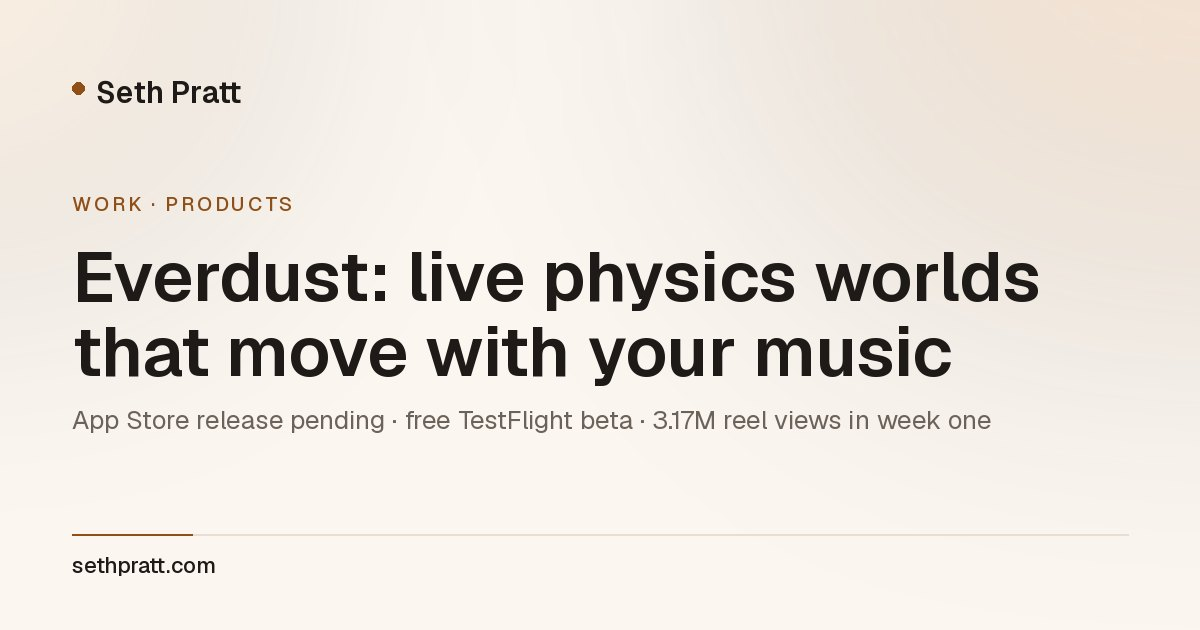
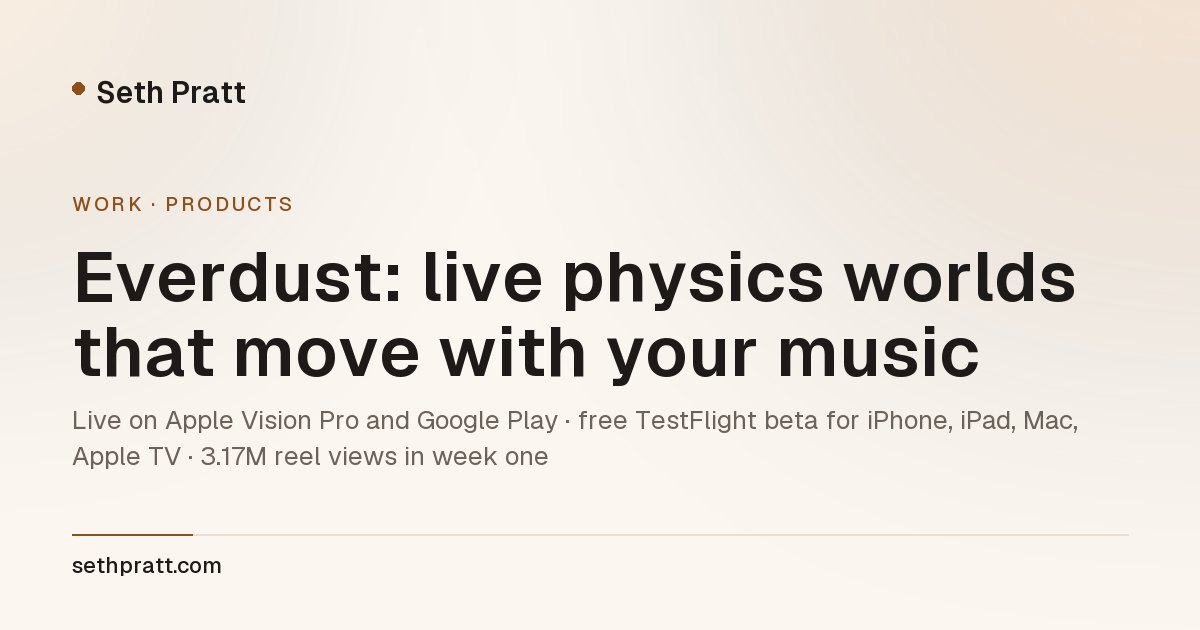
Everdust: live on Apple Vision Pro and Google Play, with store links (#12)
The home Shipped card, the Work card and the project page said 'App Store
release pending'. Everdust has been on the App Store (Vision Pro) and Google
Play since 22 Oct 2026; iPhone, iPad, Mac and Apple TV stay in the TestFlight
beta. Adds App Store and Google Play links to the card and the project page,
regenerates llms.txt and the Everdust OG card, and updates the tests.

diff --git a/lib/editorial.ts b/lib/editorial.ts
@@ -340,7 +340,7 @@ export const independentProjects: Editorial[] = [
       ], links: [{ label: 'The confidential option and the pilot’s numbers', href: 'https://decosa.ai/confidential' }, { label: 'The recipe behind the pilot, on Hugging Face', href: 'https://huggingface.co/decosaai/confidential-qwen-recipe' }] },
       { id: 'family', title: 'Apps by Decosa', paragraphs: [
         'Decosa, Inc. makes Everdust, the physics and music app. Five more apps come from the same team and keep their own products and accounts: Cue Mixtapes, Snug, AutoTalent, ElmoSEO and Dr. Grey. The hard part under each, its engine, is moving into Decosa one at a time, so every app and every Decosa tool can use it. Next are the mix cue engine from Cue, the room engine from Snug, the signed decision record from AutoTalent, the site-check engine from ElmoSEO and the evidence engine from Dr. Grey.',
-        'Everdust already uses the same kind of stack. Its scene Creator, in beta on TestFlight, builds scenes with open models that Decosa can serve, DeepSeek V4 Flash for its Quick mode, called through OpenRouter for now rather than Decosa’s own hosting.'
+        'Everdust already uses the same kind of stack. Its scene Creator, in the Vision Pro app and the TestFlight beta, builds scenes with open models that Decosa can serve, DeepSeek V4 Flash for its Quick mode, called through OpenRouter for now rather than Decosa’s own hosting.'
       ], links: [{ label: 'Everdust: live physics worlds that move with your music', href: '/work/everdust' }, { label: 'Apps by Decosa', href: 'https://decosa.ai/family' }] },
       { id: 'not-yet', title: 'What is not there yet', paragraphs: [
         'Several hosted services are switched off for now, among them live transcription, the document reader, translation and Studio renders. Tool pages that need one show a recorded run and say so. The sealed tier is paused, the confidential tier is a pilot, self-hosting is on request until the code and container images are published, and the site’s chat guide is off.',
@@ -362,24 +362,24 @@ export const independentProjects: Editorial[] = [
     ],
     title: 'Everdust: live physics worlds that move with your music.',
     seoTitle: 'Everdust: Live Physics Worlds, Space Science Games and Narrated Stories', category: 'Independent product / Physics and music app',
-    description: 'Seth Pratt’s Everdust, made by Decosa, Inc.: a particle universe simulator with 11 space science games and 14 narrated science stories for iPhone, iPad, Mac, Apple TV and Vision Pro, where every world is a live simulation that moves with music.',
-    lede: 'Everdust is a particle universe simulator where every world is a live simulation that moves with your music, from colliding galaxies to a slime mold with no brain. It runs on iPhone, iPad, Mac, Apple TV and Vision Pro, and Decosa, Inc., my company, makes it. It is in a free public beta on TestFlight while the App Store release is pending.',
+    description: 'Seth Pratt’s Everdust, made by Decosa, Inc.: a particle universe simulator with 11 space science games and 14 narrated science stories, live on Apple Vision Pro and Android and in beta on iPhone, iPad, Mac and Apple TV, where every world is a live simulation that moves with music.',
+    lede: 'Everdust is a particle universe simulator where every world is a live simulation that moves with your music, from colliding galaxies to a slime mold with no brain. Decosa, Inc., my company, makes it. It has been live on the App Store for Apple Vision Pro and on Google Play for Android since October 22, 2026, and it is in a free public beta on TestFlight for iPhone, iPad, Mac and Apple TV.',
     takeaway: 'Every world is a live simulation, not a video, and the games and the narrated stories run on that same physics.',
-    facts: [{ label: 'Built by', value: 'My lab: a team of AI agents I direct' }, { label: 'Platforms', value: 'iPhone, iPad, Mac, Apple TV and Vision Pro' }, { label: 'Status', value: 'Free TestFlight beta · App Store release pending' }],
+    facts: [{ label: 'Built by', value: 'My lab: a team of AI agents I direct' }, { label: 'Platforms', value: 'Apple Vision Pro and Android; iPhone, iPad, Mac and Apple TV in beta' }, { label: 'Status', value: 'Live on Apple Vision Pro and Google Play · free TestFlight beta' }],
     workflowLabel: 'How a world gets into Everdust · simplified from the notes linked below',
     workflow: ['Prototype the physics on the web', 'Port it to the native engine', 'Check parity on every platform', 'Test with bots and in the headset', 'Release it in the beta'],
     sections: [
       { id: 'what', title: 'What it is', paragraphs: [
         'Everdust is a particle universe simulator. Every world in it is a live simulation, not a video: galaxies colliding, a black hole you can feed, living fluids, a slime mold that thinks without a brain. The music does not sit on top of the worlds; it moves their physics. In Ferrofluid the bass is the magnet, so the spikes rise past a threshold and sharpen as the bass swells.',
         'The engine has 121 live scenes. Around them are 11 space science games built on the same simulations, three of them for two players, and 14 narrated science stories in which every chapter is a simulation you can reach into while the narrator explains it. Two of the stories, Anatomy of a Thought I and II, follow one prompt through a small language model and through one about 16 times larger, the same question as my interactive paper.'
-      ], links: [{ label: 'everdust.ai', href: 'https://everdust.ai' }, { label: 'Watching a language model think (interactive paper)', href: '/writing/watching-a-language-model-think' }] },
-      { id: 'platforms', title: 'One engine, five Apple platforms and Quest', paragraphs: [
-        'Everdust is in a free public beta on TestFlight for iPhone, iPad, Mac, Apple TV and Vision Pro, and Meta Quest has an alpha list. The App Store release is pending. In the headset the worlds become things to handle: in the Vision Pro beta you can pinch a galaxy’s core and throw it into another, or carry a black hole and watch the stars bend.',
+      ], links: [{ label: 'everdust.ai', href: 'https://everdust.ai' }, { label: 'Everdust on the App Store (Apple Vision Pro)', href: 'https://apps.apple.com/us/app/everdust-space-science-games/id6818004038' }, { label: 'Everdust on Google Play (Android)', href: 'https://play.google.com/store/apps/details?id=ai.decosa.everdust' }, { label: 'Watching a language model think (interactive paper)', href: '/writing/watching-a-language-model-think' }] },
+      { id: 'platforms', title: 'One engine, five Apple platforms, Android and Quest', paragraphs: [
+        'Everdust has been live on the App Store for Apple Vision Pro and on Google Play for Android since October 22, 2026. It is in a free public beta on TestFlight for iPhone, iPad, Mac and Apple TV, and Meta Quest has an alpha list. In the headset the worlds become things to handle: on Vision Pro you can pinch a galaxy’s core and throw it into another, or carry a black hole and watch the stars bend.',
         'One shader source compiles to Metal for the five Apple platforms and to SPIR-V for Quest. AI agents port each new world from a web prototype to the native engine, and parity tests between platforms keep the ports honest. On October 10 one agent ported four interactive nebula simulations in 81 minutes, and the tests caught a power function that returned NaN on Metal.'
       ], links: [{ label: 'One sim, seven platforms: porting with agents and tests', href: '/writing/one-sim-seven-platforms' }] },
       { id: 'create', title: 'Create: describe a world, get a game', paragraphs: [
         'Create turns a sentence into a playable game. A language model writes the game as data from a list of registered physics parts, and a validator proves that every level can be won, and that the first can be lost, before anyone sees it. On a 20-prompt eval all 20 games were playable, at a median $0.29 a game.',
-        'In the app, the scene Creator is in beta on TestFlight. Its Quick mode runs on an open model, DeepSeek V4 Flash, through OpenRouter for now.'
+        'In the app, the scene Creator ships on Vision Pro and is in the TestFlight beta on the other Apple platforms. Its Quick mode runs on an open model, DeepSeek V4 Flash, through OpenRouter for now.'
       ], links: [{ label: 'Create: a language model, a parts list and a validator', href: '/writing/create-constrained-generation' }] },
       { id: 'testing', title: 'Tested by bots, AI panels and a person in a headset', paragraphs: [
         'The nightly run before my headset sessions covered 550,948 bot episodes and about 4.2 billion invariant checks. They still missed what a person finds: on October 10 every build I played had passed its bots, and about 30 of the 30 issues I hit in the headset had escaped every eval. Each escaped issue becomes a new eval the same day.',
@@ -393,13 +393,13 @@ export const independentProjects: Editorial[] = [
         'Nearly all of those views came from people who did not follow the account: 99.6% for the top reel. The account had 4,025 followers on October 20. A week of views is attention, not installs, and says nothing yet about who keeps the app.'
       ], links: [{ label: '@everdustapp on Instagram', href: 'https://www.instagram.com/everdustapp/' }] },
       { id: 'not-claiming', title: 'What I am not claiming', paragraphs: [
-        'There is no App Store listing yet, so there are no ratings or download numbers here. Reel views are Instagram’s own counts for one week. The bot runs and AI panel scores above are evals of builds, not reviews from players.'
+        'Everdust reached the App Store and Google Play on October 22, 2026, too recently for ratings or download numbers, so there are none here. Reel views are Instagram’s own counts for one week. The bot runs and AI panel scores above are evals of builds, not reviews from players.'
       ] }
     ],
-    basis: 'Prepared October 20, 2026 from the live everdust.ai site, the Apps by Decosa page on decosa.ai, the field notes linked on this page, and the @everdustapp Instagram insights for the 21 reels posted October 13–18, pulled on October 20.',
-    limitations: 'Everdust is my own product, so this page is not independent. Reel views are Instagram’s own counts for one week and are not installs or users. The app is in a public beta with no App Store listing yet. Eval numbers come from the field notes, each with its own scope.',
+    basis: 'Prepared October 20, 2026 from the live everdust.ai site, the Apps by Decosa page on decosa.ai, the field notes linked on this page, and the @everdustapp Instagram insights for the 21 reels posted October 13–18, pulled on October 20. Store status updated October 24, 2026 from the live App Store and Google Play listings.',
+    limitations: 'Everdust is my own product, so this page is not independent. Reel views are Instagram’s own counts for one week and are not installs or users. The app reached the App Store (Apple Vision Pro) and Google Play (Android) on October 22, 2026; iPhone, iPad, Mac and Apple TV are still in a public beta. Eval numbers come from the field notes, each with its own scope.',
     related: [{ label: 'Decosa: AI tools that do one job and show their work', href: '/work/decosa' }, { label: 'One sim, seven platforms: porting with agents and tests', href: '/writing/one-sim-seven-platforms' }, { label: 'The Lab: physics, lifeforms and live worlds', href: '/lab' }],
-    product: { name: 'Everdust', url: 'https://everdust.ai', description: 'Join the free beta on TestFlight, or try the live worlds in your browser.', category: 'GameApplication', os: 'iOS, iPadOS, macOS, tvOS, visionOS' }
+    product: { name: 'Everdust', url: 'https://everdust.ai', description: 'Free on the App Store for Apple Vision Pro and on Google Play for Android, or try the live worlds in your browser.', category: 'GameApplication', os: 'visionOS, Android' }
   }
 ];
 

diff --git a/lib/work.ts b/lib/work.ts
@@ -33,10 +33,10 @@ export const workItems: WorkItem[] = [
   },
   {
     slug: 'everdust', title: 'Everdust', topics: ['Products'], date: '2026-10', kicker: 'Products · Shipped',
-    summary: 'A particle universe simulator, 11 space science games and 14 narrated science stories for iPhone, iPad, Mac, Apple TV and Vision Pro, where every world is a live simulation. In its first week of reels, October 13–18, 2026, 21 Instagram reels drew 3.17M views.',
-    chips: ['App Store release pending', 'free TestFlight beta', '3.17M reel views in week one'],
+    summary: 'A particle universe simulator, 11 space science games and 14 narrated science stories, live on Apple Vision Pro and Android and in beta on iPhone, iPad, Mac and Apple TV, where every world is a live simulation. In its first week of reels, October 13–18, 2026, 21 Instagram reels drew 3.17M views.',
+    chips: ['Live on Apple Vision Pro and Google Play', 'free TestFlight beta for iPhone, iPad, Mac, Apple TV', '3.17M reel views in week one'],
     primary: '/work/everdust',
-    links: [{ label: 'Project', href: '/work/everdust' }, { label: 'everdust.ai', href: 'https://everdust.ai' }, { label: 'Instagram', href: 'https://www.instagram.com/everdustapp/' }, { label: 'The Lab', href: '/lab' }],
+    links: [{ label: 'Project', href: '/work/everdust' }, { label: 'everdust.ai', href: 'https://everdust.ai' }, { label: 'App Store', href: 'https://apps.apple.com/us/app/everdust-space-science-games/id6818004038' }, { label: 'Google Play', href: 'https://play.google.com/store/apps/details?id=ai.decosa.everdust' }, { label: 'Instagram', href: 'https://www.instagram.com/everdustapp/' }, { label: 'The Lab', href: '/lab' }],
   },
   {
     slug: 'video-evals', title: 'When the lip-sync score picked the worse take', topics: ['Evals', 'Agents'], date: '2026-08', kicker: 'Evals · Video',
@@ -127,7 +127,7 @@ export const workItems: WorkItem[] = [
 
 /** The "Shipped" row on the home page. */
 export const shipped = [
-  { name: 'Everdust', status: 'App Store release pending', body: 'A particle universe simulator and space science games for iPhone, iPad, Mac, Apple TV and Vision Pro.', href: 'https://everdust.ai', linkLabel: 'everdust.ai' },
+  { name: 'Everdust', status: 'Live on Apple Vision Pro and Google Play', body: 'A particle universe simulator and space science games, free on Vision Pro and Android. iPhone, iPad, Mac and Apple TV are in a free beta.', href: 'https://everdust.ai', linkLabel: 'everdust.ai', stores: [{ label: 'App Store', href: 'https://apps.apple.com/us/app/everdust-space-science-games/id6818004038' }, { label: 'Google Play', href: 'https://play.google.com/store/apps/details?id=ai.decosa.everdust' }] },
   { name: 'Create', status: '20/20 playable in our eval', body: 'Describe a world, get a playable simulation, for about $0.29 a game.', href: 'https://everdust.ai', linkLabel: 'everdust.ai' },
   { name: 'ElmoSEO', status: 'Live, with paying customers', body: 'An SEO service built for AI search.', href: 'https://elmoseo.com', linkLabel: 'elmoseo.com' },
   { name: 'Dr. Grey', status: 'Live', body: 'Pick a goal and see which supplements have the strongest research, in plain words.', href: 'https://drgrey.ai', linkLabel: 'drgrey.ai' },

diff --git a/app/page.tsx b/app/page.tsx
@@ -239,7 +239,9 @@ export default function Home() {
             <p className="status">{s.status}</p>
             <h3 className="h3 card-title"><a href={s.href} target="_blank" rel="noreferrer">{s.name}<span className="sr-only"> (opens in a new tab)</span></a></h3>
             <p className="body">{s.body}</p>
-            <span className="link" aria-hidden="true">{s.linkLabel} <span className="arr out">↗</span></span>
+            {'stores' in s
+              ? <span className="link ship-stores">{s.stores.map(l => <a key={l.href} href={l.href} target="_blank" rel="noreferrer">{l.label} <span className="arr out" aria-hidden="true">↗</span><span className="sr-only"> (opens in a new tab)</span></a>)}</span>
+              : <span className="link" aria-hidden="true">{s.linkLabel} <span className="arr out">↗</span></span>}
           </article>)}
         </div>
       </div>

diff --git a/app/globals.css b/app/globals.css
@@ -343,6 +343,9 @@ html.dark .cp-panel{box-shadow:0 0 0 1px rgba(255,255,255,.06),0 30px 70px -20px
 html.dark .ship .status::before{box-shadow:0 0 8px var(--glow)}
 @media (min-width:1101px){.ship .status{align-items:flex-start;min-height:2lh}.ship .status::before{margin-top:calc(.5lh - 3px)}}
 .ship .link{font-size:var(--fs-14);margin-top:4px}
+.ship-stores{position:relative;z-index:2;display:flex;flex-wrap:wrap;gap:4px 14px}
+.ship-stores a{color:inherit;text-decoration:none}
+.ship-stores a:hover,.ship-stores a:focus-visible{color:var(--accent);text-decoration:underline}
 
 /* Lab band (dark in both modes) */
 .band{position:relative;padding:var(--section) 0;overflow:hidden}
